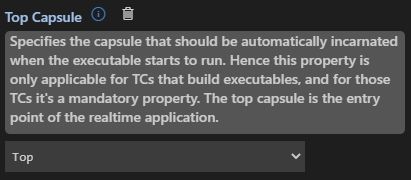
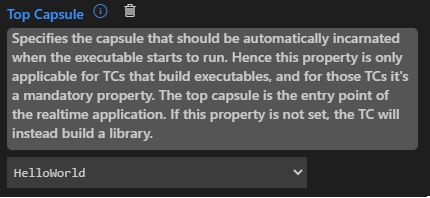
Doc updates for TCs

diff --git a/docs-sources/building/transformation-configurations.md b/docs-sources/building/transformation-configurations.md
@@ -1,4 +1,4 @@
-A transformation configuration (or TC for short) contains all properties needed for transforming Art files into C++ code and for building the generated code into an application. It is a text file in JavaScript format with the file extension .tcjs. Using JavaScript for defining build properties has many advantages. For example, it allows for dynamic properties where the value is not a static value but computed by JavaScript code.
+A transformation configuration (or TC for short) contains all properties needed for transforming Art files into C++ code and for building the generated code into an application or a library. It is a text file in JavaScript format with the file extension .tcjs. Using JavaScript for defining build properties has many advantages. For example, it allows for dynamic properties where the value is not a static value but computed dynamically by JavaScript code when the TC is built.
 
 {$product.name$} provides a dedicated language server for TCs to make them just as easy to work with as Art files. A [form-based editor](#editing-transformation-configurations) is also provided as an alternative.
 
@@ -65,7 +65,7 @@ You can freely choose if you want to edit TC files as text files or using the fo
 Below is an alphabetic list of all properties that can be used in a TC. Note that many TC properties have default values and you only need to specify a value for a TC property if its different from the default value.
 
 ### commonPreface
-This property allows you to write some code that will be inserted verbatimly into the header unit file (by default called "UnitName.h"). Since the header unit file is included by all files that are generated from the TC, you can use the common preface to define or include definitions that should be available everywhere in generated code.
+This property allows you to write some code that will be inserted verbatimly into the header unit file (by default called `UnitName.h`). Since the header unit file is included by all files that are generated from the TC, you can use the common preface to define or include definitions that should be available everywhere in generated code.
 
 ### compileArguments
 Specifies the arguments for the C++ compiler used for compiling generated C++ code. Note that some compiler arguments may already be specified in the TargetRTS configuration that is used, and the value of this property will be appended to those standard compiler arguments. 
@@ -83,7 +83,7 @@ Defines the C++ language standard to which generated code will conform. The defa
 Specifies the arguments for the C++ linker used for linking object files and libraries into an executable. This property is only applicable for TCs that build executables.
 
 ### linkCommand
-Specifies which C++ linker to use for linking object files and libraries into an executable. The default value for this property is `$(LD)` which is a variable that gets its value from the TargetRTS configuration that is used. This property is only applicable for executable TCs.
+Specifies which C++ linker to use for linking object files and libraries into an executable. The default value for this property is `$(LD)` which is a variable that gets its value from the TargetRTS configuration that is used. This property is only applicable for TCs that build executables.
 
 ### makeArguments
 Specifies the arguments for the [make command](#makecommand) to be used.
@@ -95,12 +95,14 @@ Specifies which make command to use for processing the generated make file. By d
 Specifies which TargetRTS configuration to use. The TargetRTS location specified in the [targetRTSLocation](#targetrtslocation) property defines valid values for this property. If this property is not specified, and the default TargetRTS location from the {$product.name$} installation is used, then it will get a default value according to the operating system that is used. For Windows a MinGw-based configuration will be used, while for Linux a GCC-based configuration will be used.
 
 ### targetConfigurationName
-This property maps to a subfolder of the target folder where all generated files that are not source code will be placed. This includes for example makefiles and the files that are produced by these makefiles (typically binaries). The default value of this property is `default`.
+This property maps to a subfolder of the [target folder](#targetfolder) where all generated files that are not source code will be placed. This includes for example makefiles and the files that are produced by these makefiles (typically binaries). The default value of this property is `default`.
 
-### targetLocation
-When a TC is built all generated files (C++ code, make file, binaries etc) will be placed in a so called target folder. This property specifies the name and location of that folder. The target folder will be added as a workspace folder the first time the TC is built. You can choose any name that is a valid name of a folder, but it can be convenient to base the name on the workspace folder that contains the TC so that the target folder appears near it. For example, if the workspace folder that contains the TC is called "MyApp" you can use "MyApp_target" as the name of the target folder. In fact, if you don't specify a value for this property it will default to using the name of the TC and append "_target" to it.
+### targetFolder
+Specifies where files generated from the TC will be placed. This property is usually just set to a name, and then a target folder with that name will be created next to the folder that contains the TC. That target folder is then added as a workspace folder, which will cause you to be prompted about if you trust the authors of the files in that folder. It's safe to answer yes since all files in that folder are automatically generated by {$product.name$}. 
 
-The path can be either absolute or relative. Relative paths are resolved against the folder that contains the TC. Use forward slashes as path separator. 
+You can also specify an absolute path to a target folder if you prefer generated files to be placed somewhere else. If you instead specify a relative path it gets resolved relative to the folder that contains the TC. The specified target folder will be created if it doesn't already exist. Use forward slashes as path separator. 
+
+If this property is not specified it defaults to the name of the TC, with `_target` appended. For example, if the TC is called `app.tcjs`, the target folder will default to `app_default`.
 
 ### targetRTSLocation
 Specifies the location of the TargetRTS to use. If no value is set for this property the TargetRTS from the RTist in Code installation will be used. If you want to use another TargetRTS specify the full path to the `TargetRTS` folder (including that folder itself). Use forward slashes as path separator. For example:
@@ -111,6 +113,8 @@ tc.targetRTSLocation = "C:/git/rsarte-target-rts/rsa_rt/C++/TargetRTS";
 
 ### topCapsule
 Specifies the capsule that should be automatically incarnated when the executable starts to run. Hence this property is only applicable for TCs that build executables, and for those TCs it's a mandatory property. The top capsule is the entry point of the realtime application.
+
+If you don't specify a value for this property, the TC will build a library instead of an executable.
 
 ### unitName
 Specifies the base name of the so called unit header and implementation files that are generated from the TC. By default the value of this property is `UnitName` which means that these unit files will be called `UnitName.cpp` and `UnitName.h`. The unit files contain certain information that applies to the whole unit of code that is generated from a TC. The header unit file is included by all files that are generated from the TC.

diff --git a/docs-sources/building/index.md b/docs-sources/building/index.md
@@ -17,7 +17,7 @@ Once there is an active TC in a workspace folder, the first and second steps (ge
 
 ![](images/target-workspace-folder.png)
 
-To perform the third step (running make to generate binaries) you can simply go to the Terminal and invoke the command `make`. For convenience there is also a command **Build** available in the context menu of a TC. This command will first set the TC as active (if it was not already active) so that C++ code and a make file get generated. It will then run the make tool on the generated make file. 
+To perform the third step (running make to generate binaries) you can simply go to the target folder in the Terminal and invoke the command `make`. For convenience there is also a command **Build** available in the context menu of a TC. This command will first set the TC as active (if it was not already active) so that C++ code and a make file get generated. It will then run the make tool on the generated make file. 
 
 There are also two other useful commands in the context menu of a TC:
 
@@ -30,8 +30,8 @@ Removes the target workspace folder produced when building a TC. This means that
 ## Build Messages
 When you use the **Build** or **Run** commands on a TC, messages will be printed in two places depending on what kind of message it is:
 
-1. The **Terminal** view. Messages produced when compiling and linking the generated C++ code will be printed here, for example compilation errors. In many cases such messages will have a reference to a generated C++ file which you can control-click to open. In case of **Run** messages printed by the running executable will also be printed in the Terminal view. To terminate a running executable you can press ++ctrl+c++ in the Terminal view.
-2. The **Art Build** output channel. All other build messages are printed here, for example messages emitted by the C++ code generator. In some cases these messages will have a reference to a file (e.g. an input TC or Art file), and sometimes even to an element within that file. You can control-click these to open the file and navigate to the element. In case the build fails (e.g. because of compilation errors) a hyperlink will be present for opening the Terminal view where the errors that caused the build to fail can be found.
+1. The **Terminal** view. Messages produced when compiling and linking the generated C++ code will be printed here, for example compilation errors. In many cases such messages will have a reference to a generated C++ file which you can ++ctrl++-click to open. In case of **Run** messages printed by the running executable will also be printed in the Terminal view. To terminate a running executable you can press ++ctrl+c++ in the Terminal view.
+2. The **Art Build** output channel. All other build messages are printed here, for example messages emitted by the C++ code generator. In some cases these messages will have a reference to a file (e.g. an input TC or Art file), and sometimes even to an element within that file. You can ++ctrl++-click these to open the file and navigate to the element. In case the build fails (e.g. because of compilation errors) a hyperlink will be present for opening the Terminal view where the errors that caused the build to fail can be found.
 
 ![](images/art-build-output.png)
 
@@ -46,7 +46,7 @@ For C++ code snippets you can as an alternative perform the navigation using a t
 
 ![](images/navigate-cpp-tooltip.png)
 
-If the cursor is within the C++ code snippet when navigating, the cursor will be set at the same place in the generated C++ code. This is convenient if you start to edit a code snippet in an Art file but later realize that you instead want to edit it in the generated C++ code instead.
+If the cursor is within the C++ code snippet when navigating, the cursor will be set at the same place in the generated C++ code. This is convenient if you start to edit a code snippet in an Art file but later realize that you want to edit it in the generated C++ code instead.
 
 ## Making Changes in Generated C++
 C++ code snippets that are embedded in the Art file will be enclosed by special comments in the generated C++ file. You can edit such code snippets in a generated C++ file. When you save the file your changes will be automatically propagated back to the Art file. Here is an example of what a code snippet may look like in the generated C++ code:
